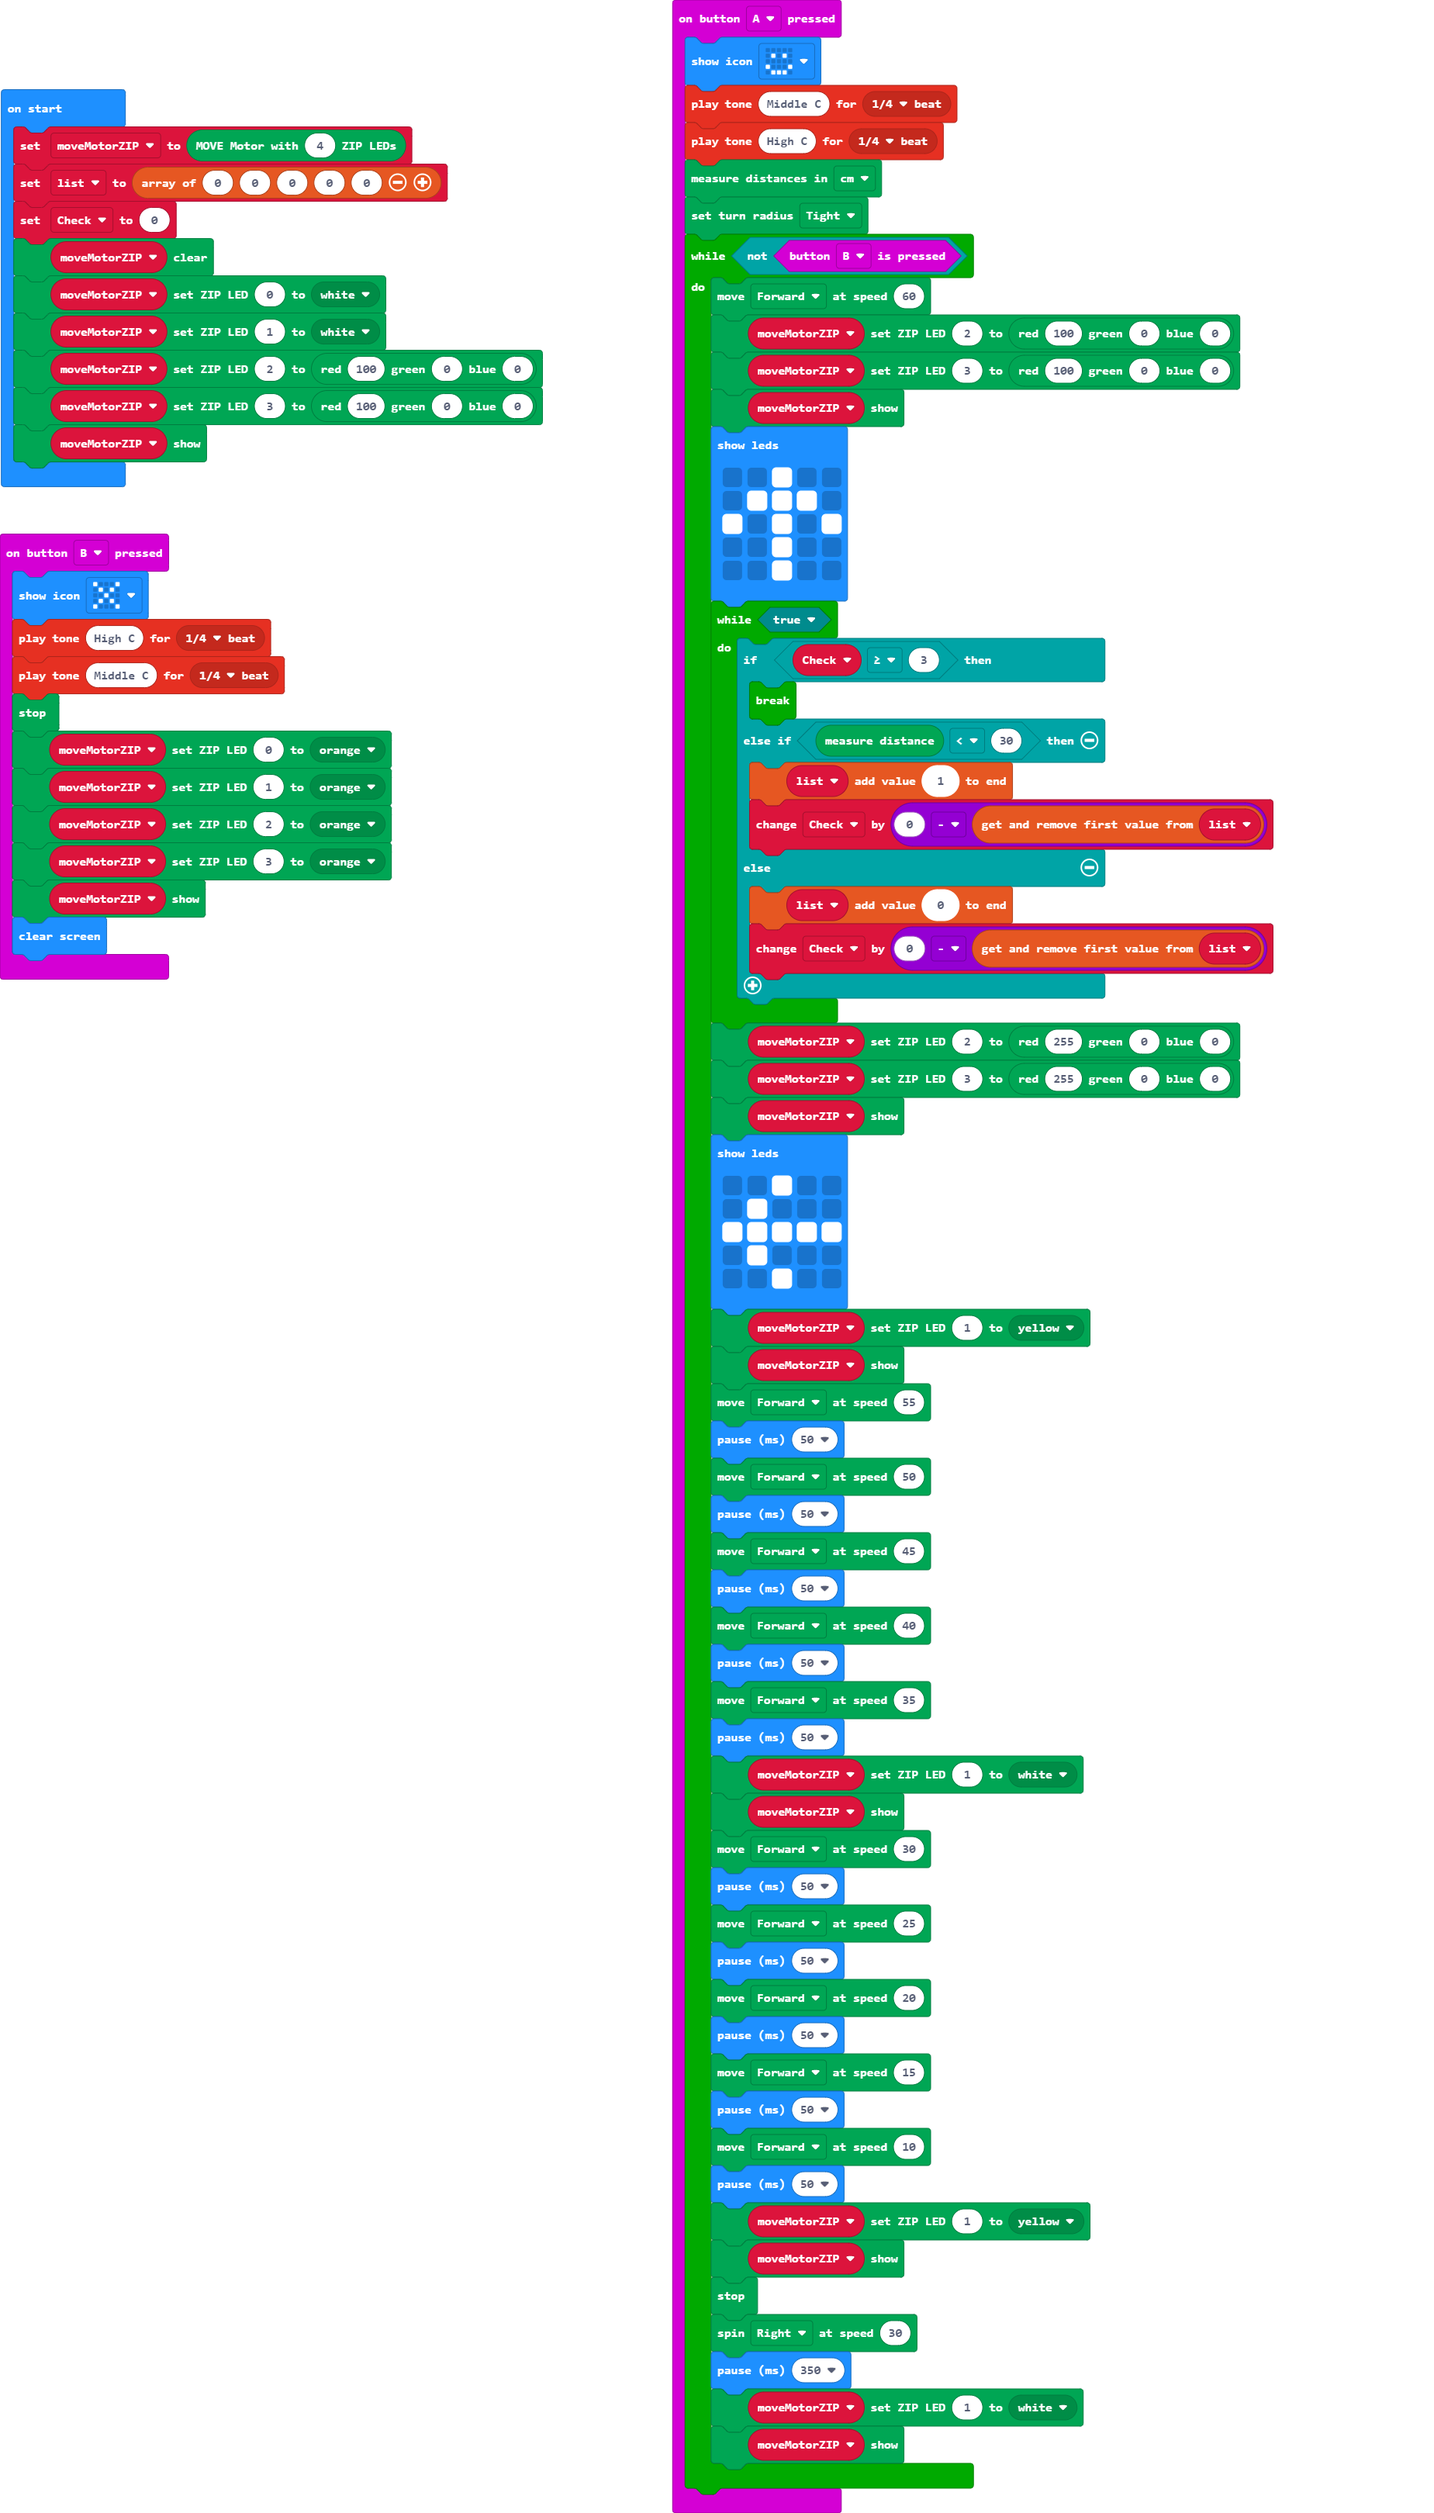
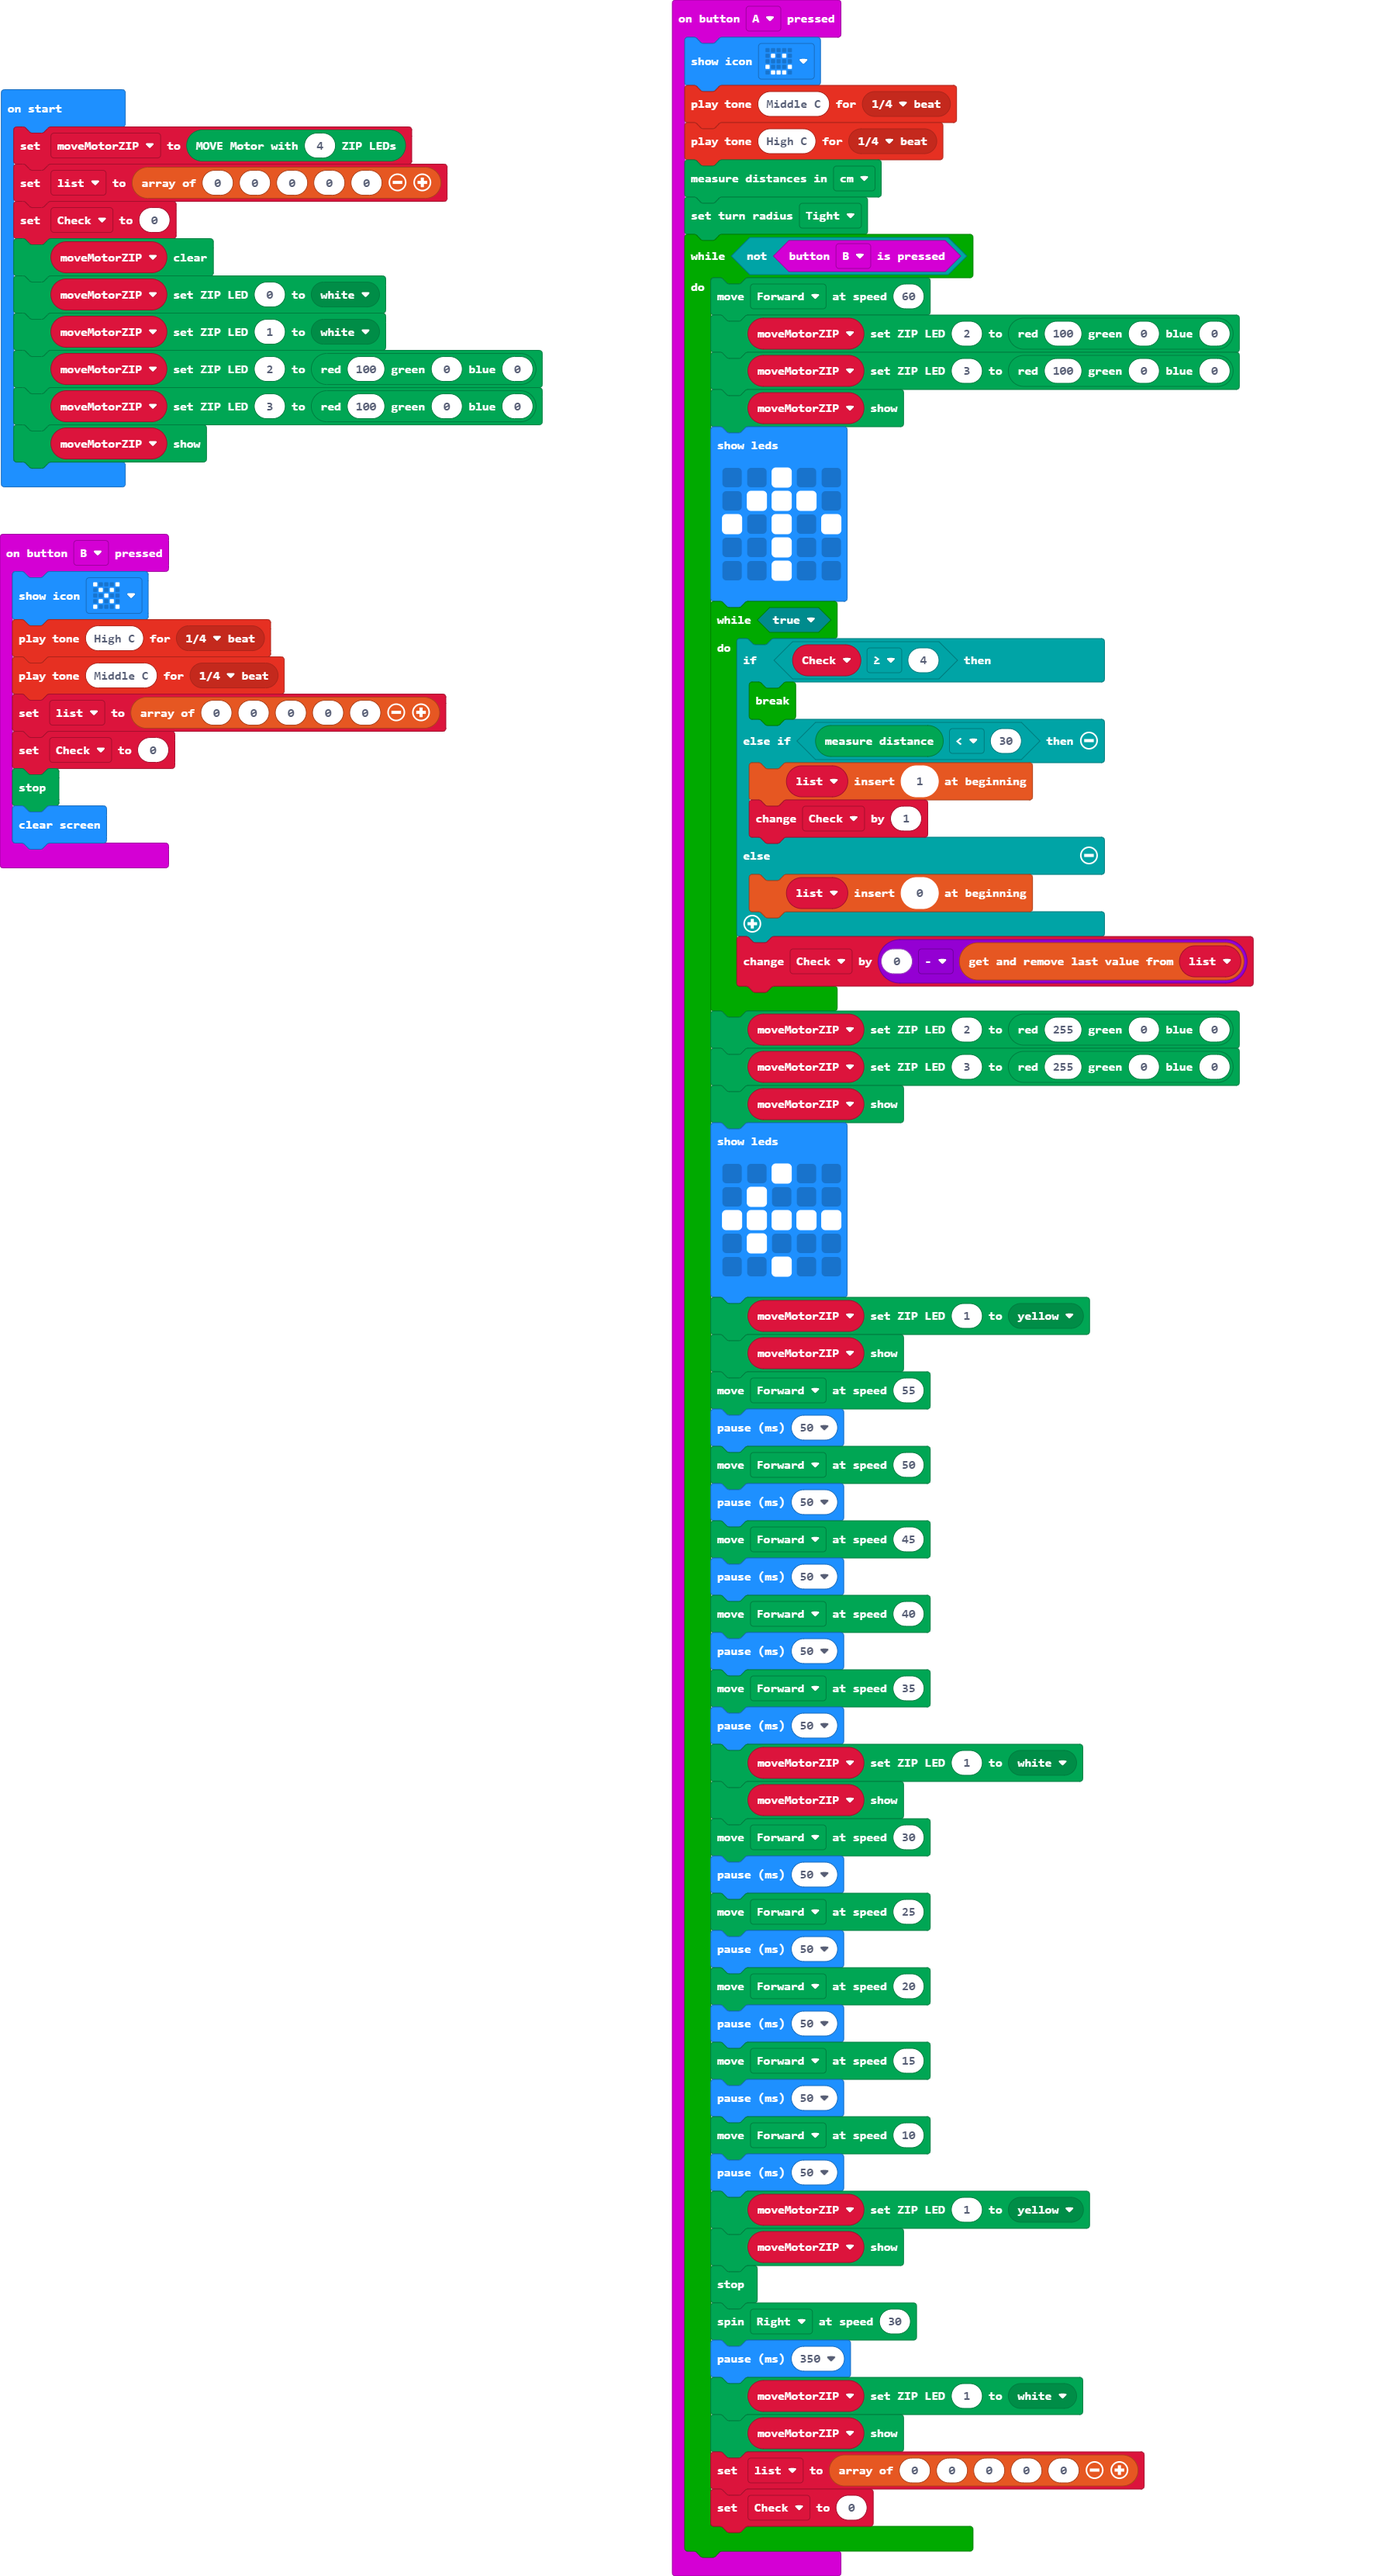
fixed check (again)

Changed region(s): [[0.4656, 0.0, 0.9312, 1.0], [0.0, 0.0312, 0.4035, 0.4052]]

diff --git a/main.ts b/main.ts
@@ -17,15 +17,15 @@ input.onButtonPressed(Button.A, function () {
             . . # . .
             `)
         while (true) {
-            if (Check >= 3) {
+            if (Check >= 4) {
                 break;
             } else if (Kitronik_Move_Motor.measure() < 30) {
-                list.push(1)
-                Check += 0 - list.shift()
+                list.unshift(1)
+                Check += 1
             } else {
-                list.push(0)
-                Check += 0 - list.shift()
+                list.unshift(0)
             }
+            Check += 0 - list.pop()
         }
         moveMotorZIP.setZipLedColor(2, Kitronik_Move_Motor.rgb(255, 0, 0))
         moveMotorZIP.setZipLedColor(3, Kitronik_Move_Motor.rgb(255, 0, 0))
@@ -68,18 +68,17 @@ input.onButtonPressed(Button.A, function () {
         basic.pause(350)
         moveMotorZIP.setZipLedColor(1, Kitronik_Move_Motor.colors(Kitronik_Move_Motor.ZipLedColors.White))
         moveMotorZIP.show()
+        list = [0, 0, 0, 0, 0]
+        Check = 0
     }
 })
 input.onButtonPressed(Button.B, function () {
     basic.showIcon(IconNames.No)
     music.playTone(523, music.beat(BeatFraction.Quarter))
     music.playTone(262, music.beat(BeatFraction.Quarter))
+    list = [0, 0, 0, 0, 0]
+    Check = 0
     Kitronik_Move_Motor.stop()
-    moveMotorZIP.setZipLedColor(0, Kitronik_Move_Motor.colors(Kitronik_Move_Motor.ZipLedColors.Orange))
-    moveMotorZIP.setZipLedColor(1, Kitronik_Move_Motor.colors(Kitronik_Move_Motor.ZipLedColors.Orange))
-    moveMotorZIP.setZipLedColor(2, Kitronik_Move_Motor.colors(Kitronik_Move_Motor.ZipLedColors.Orange))
-    moveMotorZIP.setZipLedColor(3, Kitronik_Move_Motor.colors(Kitronik_Move_Motor.ZipLedColors.Orange))
-    moveMotorZIP.show()
     basic.clearScreen()
 })
 let Check = 0
